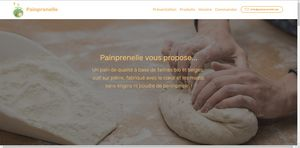
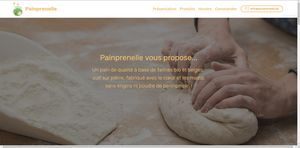
update

Changed region(s): [[0.0, 0.027, 0.99, 0.1351], [0.51, 0.0541, 0.78, 0.0811], [0.99, 0.1622, 1.0, 0.1892]]

diff --git a/index.html b/index.html
@@ -62,7 +62,7 @@
     </nav>
 </section>
 
-<section class="engine"><a href="https://mobirise.info/e">how to make your own site</a></section><section class="cid-s4lnZtnwAY mbr-fullscreen mbr-parallax-background" id="header2-3">
+<section class="engine"><a href="https://mobirise.info/c">website builder</a></section><section class="cid-s4lnZtnwAY mbr-fullscreen mbr-parallax-background" id="header2-3">
 
     
 
@@ -91,8 +91,7 @@
             <hr class="line" style="width: 25%;">
             <div class="section-text align-center mbr-fonts-style display-5">
                     
-                <div><span style="font-size: 1.5rem;">Congé du 7 au 13 juillet 2025.&nbsp;</span><br></div><div>
-</div><div>Du pain des boulangères de la région vous seront proposés au marché de Mormont du 28 juillet au 17 août 2025.</div></div>
+                <div>Je serai en congé du 7 au 13 juillet 2025, ainsi que du 28 juillet au 17 août 2025.</div><div>Durant cette période, du pain des boulangères de la région sera proposé au marché de Mormont.</div><div><br></div><div>Merci pour votre fidélité et à très bientôt&nbsp;!</div></div>
             <hr class="line" style="width: 25%;">
         </div>
         </div>
@@ -382,7 +381,7 @@
         <div class="row justify-content-center">
             <div class="media-container-column col-lg-8" data-form-type="formoid">
                 <!---Formbuilder Form--->
[2 lines of base64/hex data omitted]
                     <div class="row">
                         <div hidden="hidden" data-form-alert="" class="alert alert-success col-12">Merci pour votre commande !</div>
                         <div hidden="hidden" data-form-alert-danger="" class="alert alert-danger col-12">

diff --git a/presentation.html b/presentation.html
@@ -62,7 +62,7 @@
     </nav>
 </section>
 
-<section class="engine"><a href="https://mobirise.info/z">best website templates</a></section><section class="cid-s9oqNKMpuk mbr-fullscreen" data-bg-video="https://www.youtube.com/watch?v=2kOsWHpJuRI" id="header2-t">
+<section class="engine"><a href="https://mobirise.info/a">online site builder</a></section><section class="cid-s9oqNKMpuk mbr-fullscreen" data-bg-video="https://www.youtube.com/watch?v=2kOsWHpJuRI" id="header2-t">
 
     
 

diff --git a/page2.html b/page2.html
@@ -62,7 +62,7 @@
     </nav>
 </section>
 
-<section class="engine"><a href="https://mobirise.info/y">free html web templates</a></section><section class="mbr-section content4 cid-tfqH1ZphAv" id="content4-20">
+<section class="engine"><a href="https://mobirise.info/h">how to create a web page for free</a></section><section class="mbr-section content4 cid-tfqH1ZphAv" id="content4-20">
 
     
 
